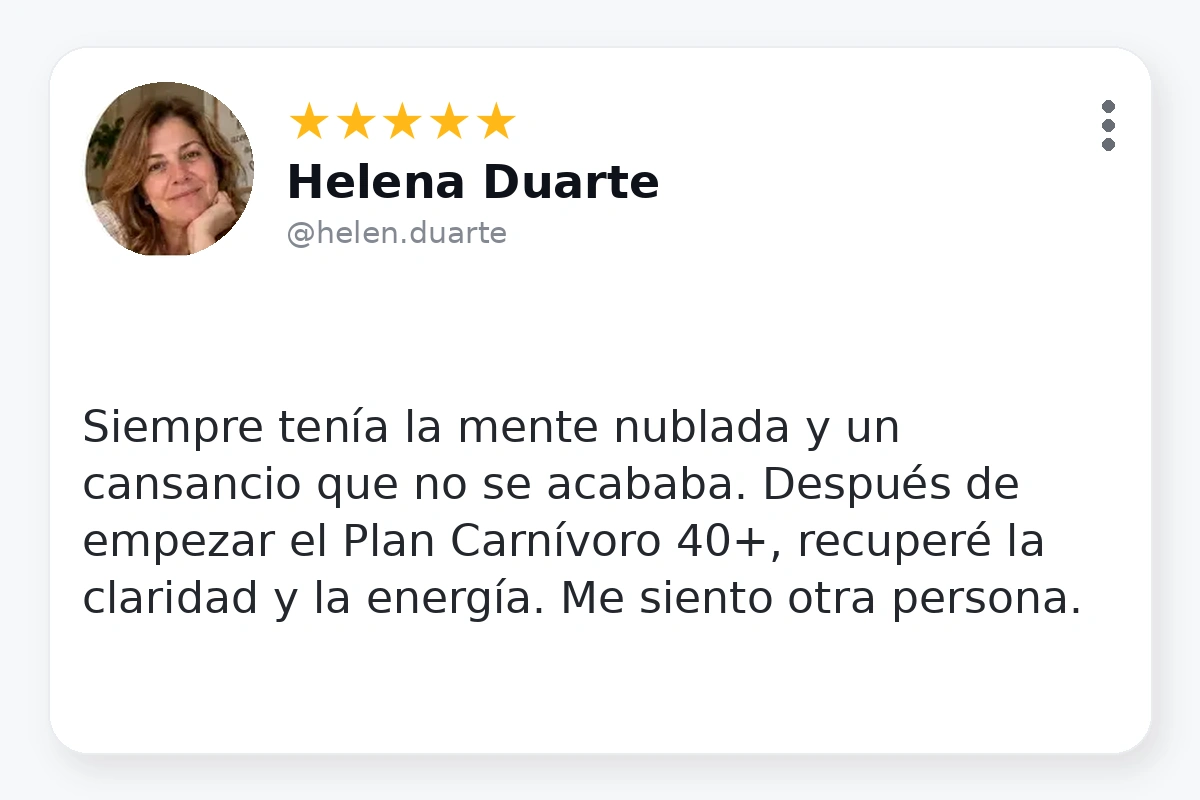
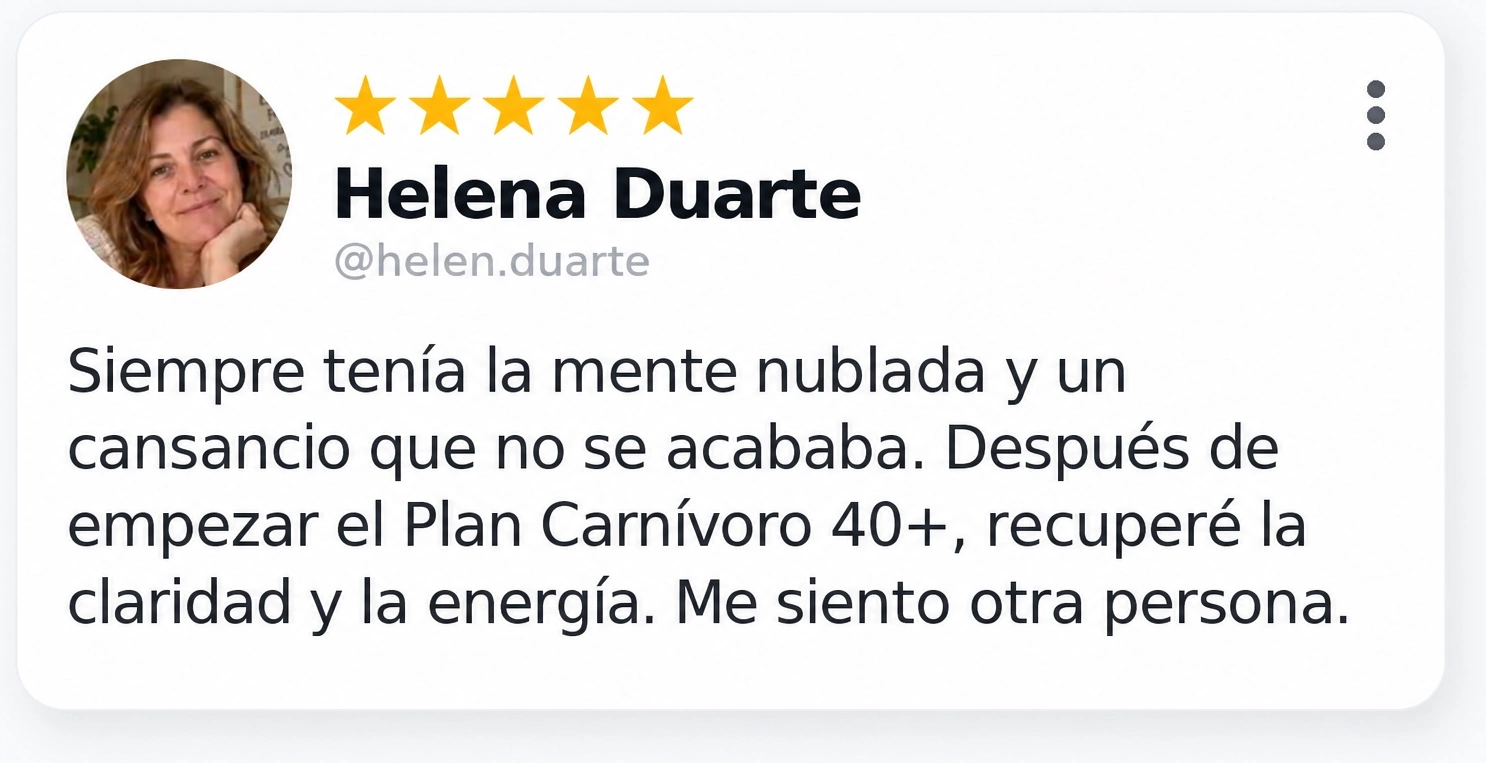
Add files via upload

Changed region(s): [[0.0308, 0.4522, 0.8942, 0.844], [0.0308, 0.0603, 0.5858, 0.3919], [0.8942, 0.0904, 0.9558, 0.1507]]

diff --git a/app.js b/app.js
@@ -16,7 +16,7 @@
     goalAppearance:{Mujer:"/assets/options/etapa_03_objetivo_mulher_ficar_mais_bonita_e_me_sentir_bem.webp",Hombre:"/assets/options/etapa_03_objetivo_homem_ficar_mais_bonito_e_me_sentir_bem.webp"},
     goalHealth:{Mujer:"/assets/options/etapa_03_objetivo_mulher_melhorar_minha_saude.webp",Hombre:"/assets/options/etapa_03_objetivo_homem_melhorar_minha_saude.webp"},
     goalBoth:{Mujer:"/assets/options/etapa_03_objetivo_mulher_ambos.webp",Hombre:"/assets/options/etapa_03_objetivo_homem_ambos.webp"},
-    comments:[1,2,3,4,5,6,7,8,9,10,11,12].map(i=>`/assets/comments/comentario_${i}.webp`),
+    comments:[1,2,3,4,5,6,7,8,9,10].map(i=>`/assets/comments/comentario_${i}.webp`),
     macroInfo:"assets/dieta-carnivora-80-20.jpeg",difference:"assets/dieta-carnivora-diferente.jpeg",goal:"/assets/meta-peso.webp",foodInfo:"/assets/mais-de-100-receitas.jpeg",mealPlan:"/assets/plano-refeicoes.webp",faceChange:{Mujer:"/assets/inchaco-rosto-mulher.webp",Hombre:"/assets/inchaco-rosto-homem.webp"},offerEvolution:{Mujer:"/assets/resultado-agora-meta-mulher.webp",Hombre:"/assets/resultado-agora-meta-homem.webp"},visibleChange:{Mujer:"/assets/antes-depois-mulher.webp",Hombre:"/assets/antes-depois-homem.webp"},socialProofPhoto:{Mujer:"/assets/social-proof-photo-mulher.jpeg",Hombre:"/assets/social-proof-photo-homem.webp"},socialProofComment:{Mujer:"/assets/social-proof-comment-mulher.jpeg",Hombre:"/assets/social-proof-comment-homem.jpeg"},guarantee:"/assets/garantia-30-dias.webp"
   };
   const KEYS=["utm_source","utm_medium","utm_campaign","utm_content","utm_term","fbclid","src"],params=new URLSearchParams(location.search),tracking=JSON.parse(sessionStorage.getItem("carnifit_tracking")||"{}");
@@ -94,7 +94,7 @@
     {id:"secondaryGoal",type:"multi",title:"Además de tu peso, ¿qué más te gustaría mejorar?",options:[c("Poder correr 5 km"),c("Sentirme mejor al mirarme al espejo"),c("Tener más salud y energía"),c("Dormir mejor"),c("Prepararme para un evento"),c("Sentirme bien con mi cuerpo"),c("Llevar una vida más activa"),c("Todavía no lo he pensado")]},
     {id:"faceChange",type:"info",image:"faceChange",imageOnly:true,title:"Bajar de peso no solo se nota en el cuerpo",body:""},
     {id:"motivation",type:"result",title:"¡Con motivación y constancia, puedes alcanzar tu objetivo antes de lo que imaginas!",body:"Alcanzarás tu objetivo en 4 semanas.",testimonials:true,testimonialStart:5},
-    {id:"building",type:"loading",title:"Creando tu plan personalizado",body:"Preparando una propuesta a partir de tus respuestas...",testimonials:true,testimonialStart:7,testimonialSelection:[12,8]}
+    {id:"building",type:"loading",title:"Creando tu plan personalizado",body:"Preparando una propuesta a partir de tus respuestas...",testimonials:true,testimonialStart:7,testimonialSelection:[7,8]}
   ];
   sessionStorage.setItem("carnifit_step","0");
   sessionStorage.setItem("carnifit_answers","{}");
@@ -125,11 +125,17 @@
     "social-proof-comment-mulher.jpeg":[1536,691,28,14,1480,662],
     "social-proof-comment-homem.jpeg":[1536,691,29,20,1478,650]
   };
-  // Cuestionario: 1–6, 12 y 8. Oferta: 11 y 7; 9 y 10 son los destacados de mujer y hombre.
-  const OFFER_COMMENT_NUMBERS=[11,7];
+  // Cuestionario: comentarios 1–8. Oferta: comentarios 9–10. Todos corresponden exactamente a las imágenes finales suministradas por el usuario.
+  const OFFER_COMMENT_NUMBERS=[9,10];
   function commentImage(path,label){
     if(!path)return `<div class="asset-slot"><span>${esc(label)}</span></div>`;
-    const crop=COMMENT_CROPS[path.split("/").pop()];
+    const fileName=path.split("/").pop();
+    // Los comentarios corregidos ya incluyen todo el card (foto, nombre, @ y texto).
+    // No aplicar recorte adicional, porque en móvil terminaba cortando avatar y usuario.
+    if(/^comentario_\d+\.webp$/i.test(fileName)){
+      return `<img class="comment-full" src="${esc(path)}" alt="${esc(label)}" loading="lazy" decoding="async">`;
+    }
+    const crop=COMMENT_CROPS[fileName];
     if(!crop)return `<img src="${esc(path)}" alt="${esc(label)}" loading="lazy" decoding="async">`;
     const [originalWidth,originalHeight,x,y,width,height]=crop;
     const style=`aspect-ratio:${width}/${height};--comment-width:${originalWidth/width*100}%;--comment-height:${originalHeight/height*100}%;--comment-left:${-x/width*100}%;--comment-top:${-y/height*100}%`;

diff --git a/styles.css b/styles.css
@@ -287,3 +287,6 @@ button,a{-webkit-tap-highlight-color:transparent}
 }
 .price-local-note{margin:8px 0 4px;text-align:center;color:#6b7280;font-size:12px;line-height:1.35}
 .price-row strong{white-space:nowrap;font-size:clamp(27px,8vw,36px)}
+
+/* Comentarios traducidos: mostrar la tarjeta completa, sin recorte adicional. */
+.testimonial-slot .comment-full{display:block;width:100%;height:auto;object-fit:contain;object-position:center;border-radius:0;background:#fff}
